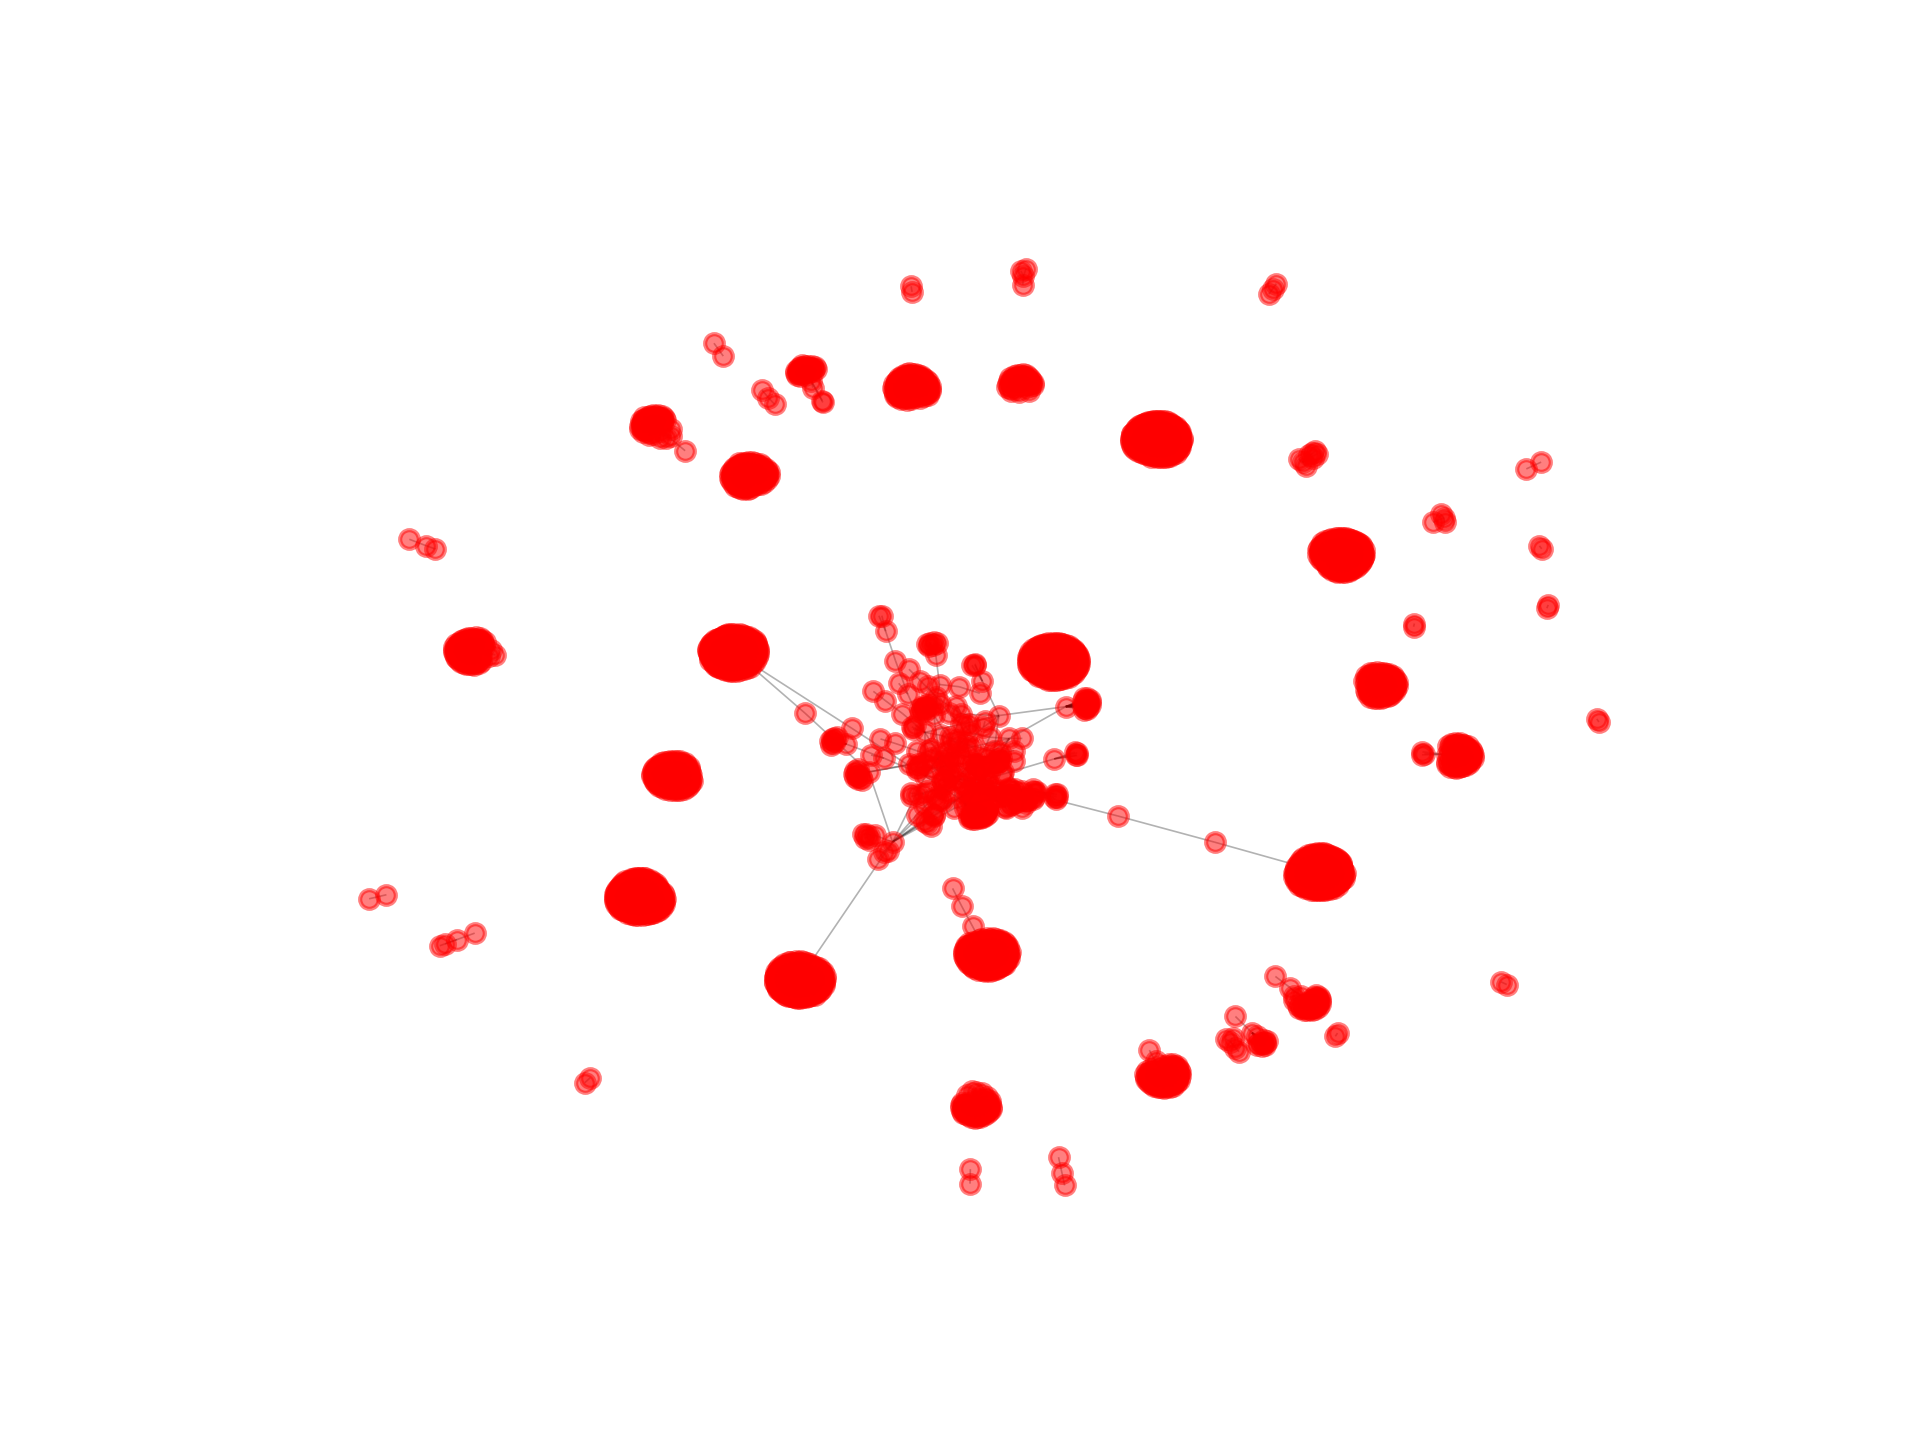
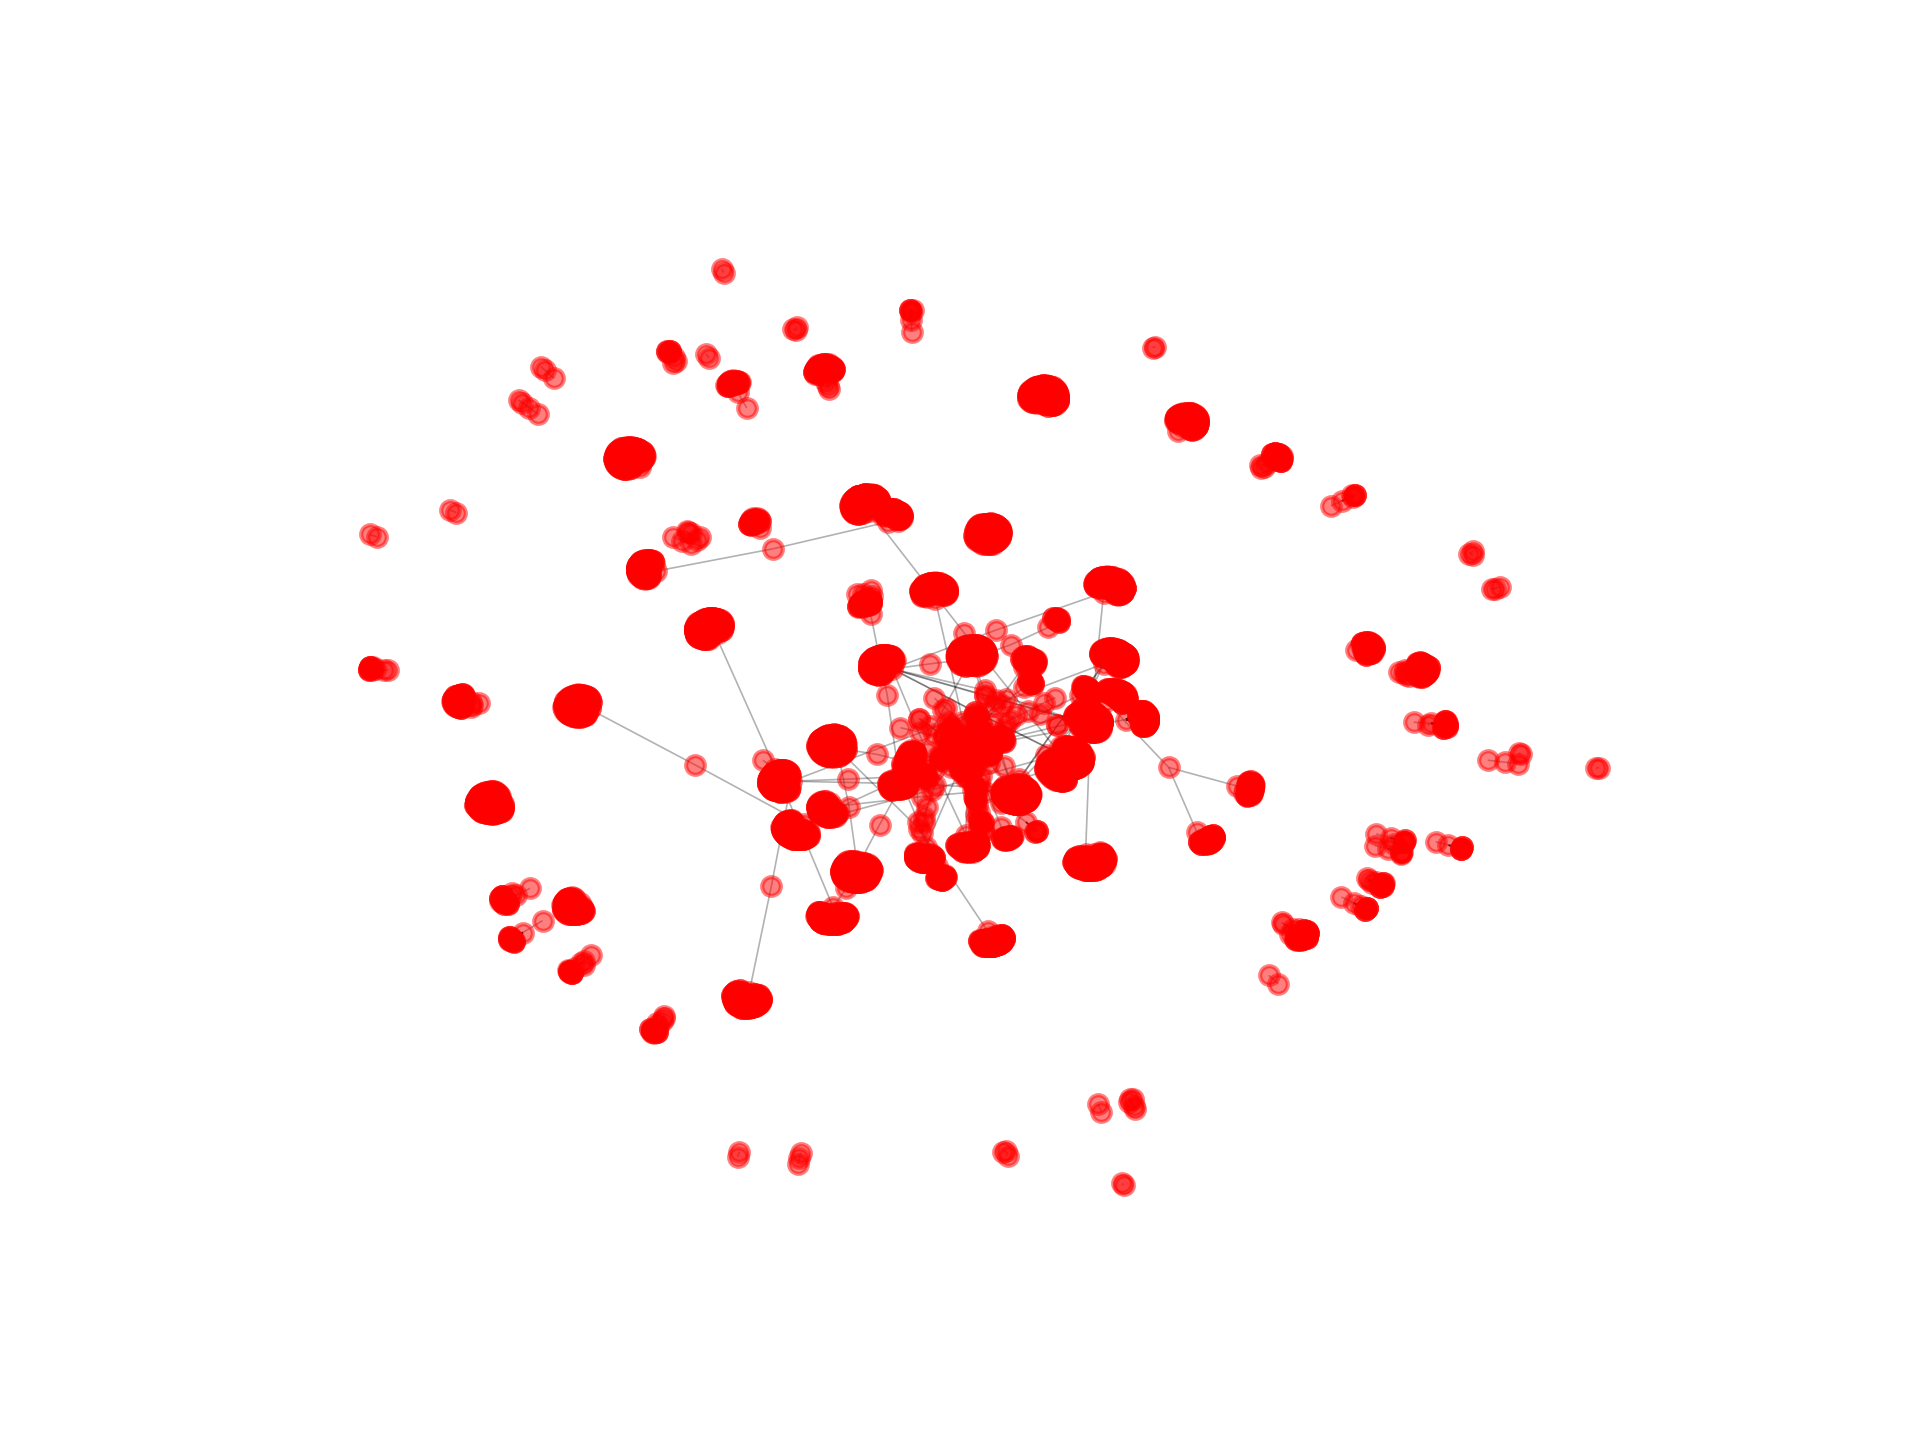
colleced more followers

diff --git a/a4/collect.py b/a4/collect.py
@@ -40,8 +40,8 @@ from urllib.request import urlopen
 from io import BytesIO
 from collections import defaultdict
 
-consumer_key = 'MdBSfazjouwZTWEc6s59WDjxP'
-consumer_secret = '09ldDrXxBtBRKUi3ilh1bezFqiyzCPPbPfzuvXGPp9E7ipXPWb'
+consumer_key = 'xoUWj7a2C20Ukz4zthXqz0Wi8'
+consumer_secret = 'PHeiFkLrZHbu5s3TWBapRtA24AT0tVO0Rnl5mBECuYSGFVqE42'
 access_token = '2209159812-IFSHdaseW96iiVj6MABIK7745x8GZQCG262KW9h'
 access_token_secret = 'Jm3H7FQlgWEHkTX23iLAKRxnyC80cLgtJHwLKIcH9bQXN'
 
@@ -71,6 +71,9 @@ def robust_request(resource, params, max_tries=5):
         request = twitter.request(resource, params)
         if request.status_code == 200:
             return request
+        elif request.status_code == 32 or request.status_code == 401:
+            print('Got error %s \nsleeping for 10 seconds.' % request.text)
+            time.sleep(10)
         else:
             print('Got error %s \nsleeping for 15 minutes.' % request.text)
             sys.stderr.flush()
@@ -225,7 +228,7 @@ def followers_map(screen_name, user_count):
     followers = get_followers(screen_name, 'screen_name', user_count)
     followers_dict = {}
     total_users = 0
-    followers_dict[screen_name] = followers  # Followers of screen_name
+    # followers_dict[screen_name] = followers  # Followers of screen_name
     file_name_followers = os.path.join("Collect_Folder", screen_name + '_followers.pickle')
 
     if os.path.isfile(file_name_followers):
@@ -277,11 +280,12 @@ def main():
         :return: Nothing
     """
     print("---------------Collecting data-------------------------------")
-    No_of_tweets = stream_tweets(search_term="Trump", num_tweets=1000)
-    load_tweets_json_toCsv(filename="data.txt")
-    afinn_down()
-    label_using_afinn('data.csv', 'afinn_data.txt')
-    num_users = followers_map(screen_name="elonmusk", user_count=200)
+    # No_of_tweets = stream_tweets(search_term="Trump", num_tweets=1000)
+    # load_tweets_json_toCsv(filename="data.txt")
+    # afinn_down()
+    # label_using_afinn('data.csv', 'afinn_data.txt')
+    No_of_tweets = 1000
+    num_users = followers_map(screen_name="satyanadella", user_count=200)
     collector_details(num_users, No_of_tweets)
     print("----------------Finished Collecting----------------------------")
 

diff --git a/a4/cluster.py b/a4/cluster.py
@@ -32,7 +32,7 @@ def create_graph(filename):
     G = nx.Graph()
     with open(filename, 'r') as fp:
         followers_dict = json.load(fp)
-    new_dict = dict({key: value for key, value in followers_dict.items() if key != 'elonmusk'})
+    new_dict = dict({key: value for key, value in followers_dict.items() if key != 'satyanadella'})
     new_dict = dict({key: value for key, value in new_dict.items() if value != []})
     G.add_nodes_from(new_dict.keys())
     for key in new_dict:
@@ -69,11 +69,11 @@ def cluster_graph(G, k):
     :param      G: Our networkx graph made from twitter data
     :return:    The clusters of our graph.
     """
-    comp = girvan_newman(G)
-    # print(tuple(sorted(c) for c in next(comp)))
+    comp = girvan_newman(G, most_valuable_edge=most_central_edge)
+    #I got 41 components from girvan_newman.
     result = tuple
-    for comp in itertools.islice(comp, k - 1):
-        result = tuple(sorted(c) for c in comp)
+    for communities in itertools.islice(comp, k):
+        result = tuple(sorted(c) for c in communities)
     return result
 
 
@@ -217,7 +217,7 @@ def main():
 
     print("\t\t************************ - Starting cluster.py - ************************ ")
 
-    G = create_graph(filename="Collect_Folder" + os.path.sep + "elonmusk.json")
+    G = create_graph(filename="Collect_Folder" + os.path.sep + "satyanadella.json")
     save_graph(G)
     result_cluster_tuple = cluster_graph(G=G, k=5)
     save_cluster(result_cluster_tuple)

diff --git a/a4/README.md b/a4/README.md
@@ -25,7 +25,7 @@ Positive Sentiment (Class Label : 1) or Negative Sentiment (Class Label : 0).
 
 Clustering of Followers of Ellon Musk:
 --------------------------------------
-I collected 300 followers of Ellon Musk, then i collected 200 more followers for each of the original 200 , to try and
+I collected 200 followers of Ellon Musk, then i collected 200 more followers for each of the original 200 , to try and
 identify the communities or the similarity between the people who follow Ellon Musk. After this i read the saved .json
 file generated by collect.py in my cluster.py after which i generate a graph using the networkx library .
 
@@ -74,8 +74,12 @@ Clustering :
 ------------
 Here i noticed the problem with clustering the followers of Ellon musk and each Follower's followers was that
 when i plotted this data as a graph there were already pre-existing clusters/communities but when i started collecting
-more data i noticed that 4 individual cluster groups ended up being a part of a larger cluster group and this continued
-when i started to collect more and more data. I noticed that through a single node large number of communites get
+more data i noticed that more cluster groups are formed. I got 44 components using girvan newman algorithm. Out of these
+44 communities. 15 communities have very less people. First, for each component I tried to cluster into k components.
+As some of the communities are not interconnected, ripple/spread effect will take some time and for large clusters it is
+very easy to spread
+to spread to all communities.
+I noticed that through a single node large number of communites get
 interconnected hence if that node / user starts a trend that effect can ripple/ spread through to these other communites
 through that one person. Hence it becomes easier for people who do marketing to analyze which customer's to target in
 this way. If more data about each user was available then we could categorize each cluster's sex, age-group and occupation
@@ -86,11 +90,11 @@ Classification:
 ---------------
 Here i noticed that removing urls before vectorizing gave me a higher accuracy for sentiment classification as well
 as using stopwords. But the main problem here was the examples for positive class were very few in number compared to my
-negative class examples, even after 4 days of continous streaming and checking, another problem that occured was instead
+negative class examples, even after 4 days of continuous streaming and checking, another problem that occured was instead
 of Donald Trump alot of tweets were also about his wife and children, hence i had to manually filter them before annotation.
 But in the end i think due to lack of enough positive class examples my classifier might not perform satisfactorily when
 it comes to classifying a positive tweet about "Trump" hence next time i need to pay more attention to the quality of tweets
-i get and not just the amount. Another problem that occured was since this were all tweets alot of words were abbreviated
+i get and not just the amount. Another problem that occurred was since this were all tweets alot of words were abbreviated
 or not of the right form hence they might confuse the classifier, hence a dictionary/ spelling checker would help us more
 in this kind of scenario. But overall i think my classifier works well and you could actually see that the sentiment for
 Trump here is more negative than positive on twitter even though he won the majority of the votes, i think this could be due
@@ -100,7 +104,7 @@ to the fact that more data was needed and that a lot of trump's followers might 
 
 IMPORTANT NOTE:
 --------------
-Due to twitter api's rate limmiting the process of collecting the followers takes a very long time,
+Due to twitter api's rate limiting the process of collecting the followers takes a very long time,
 hence if you do not want to wait that long then you need to change :
 
 In collector.py , in main() method  line 230:
